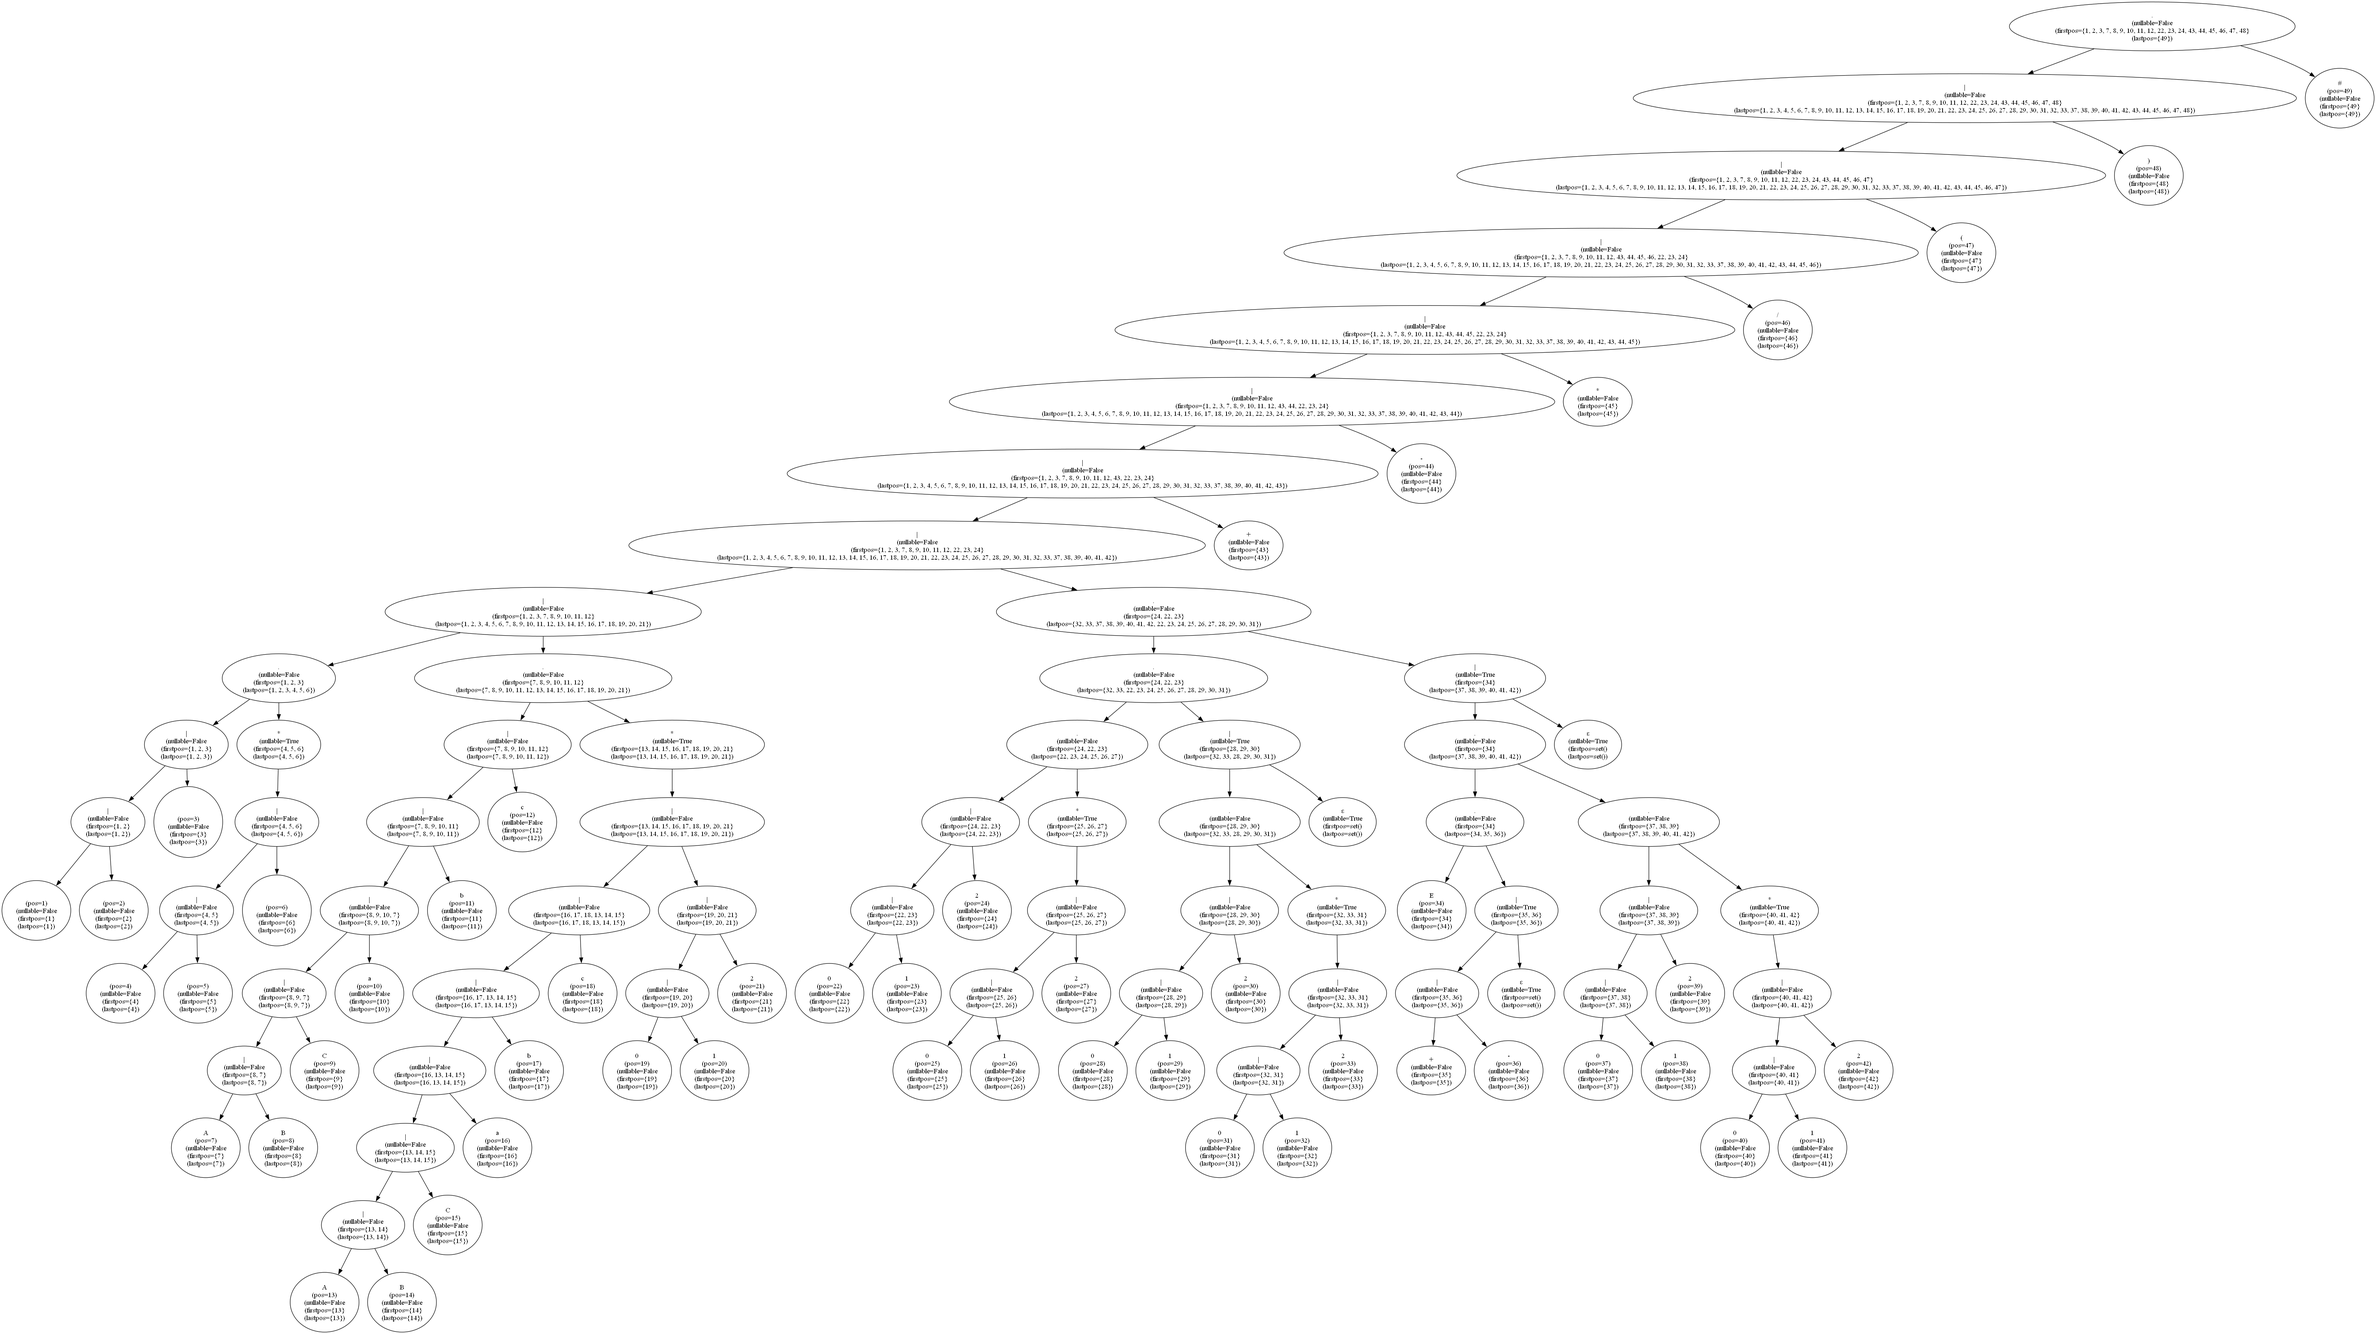
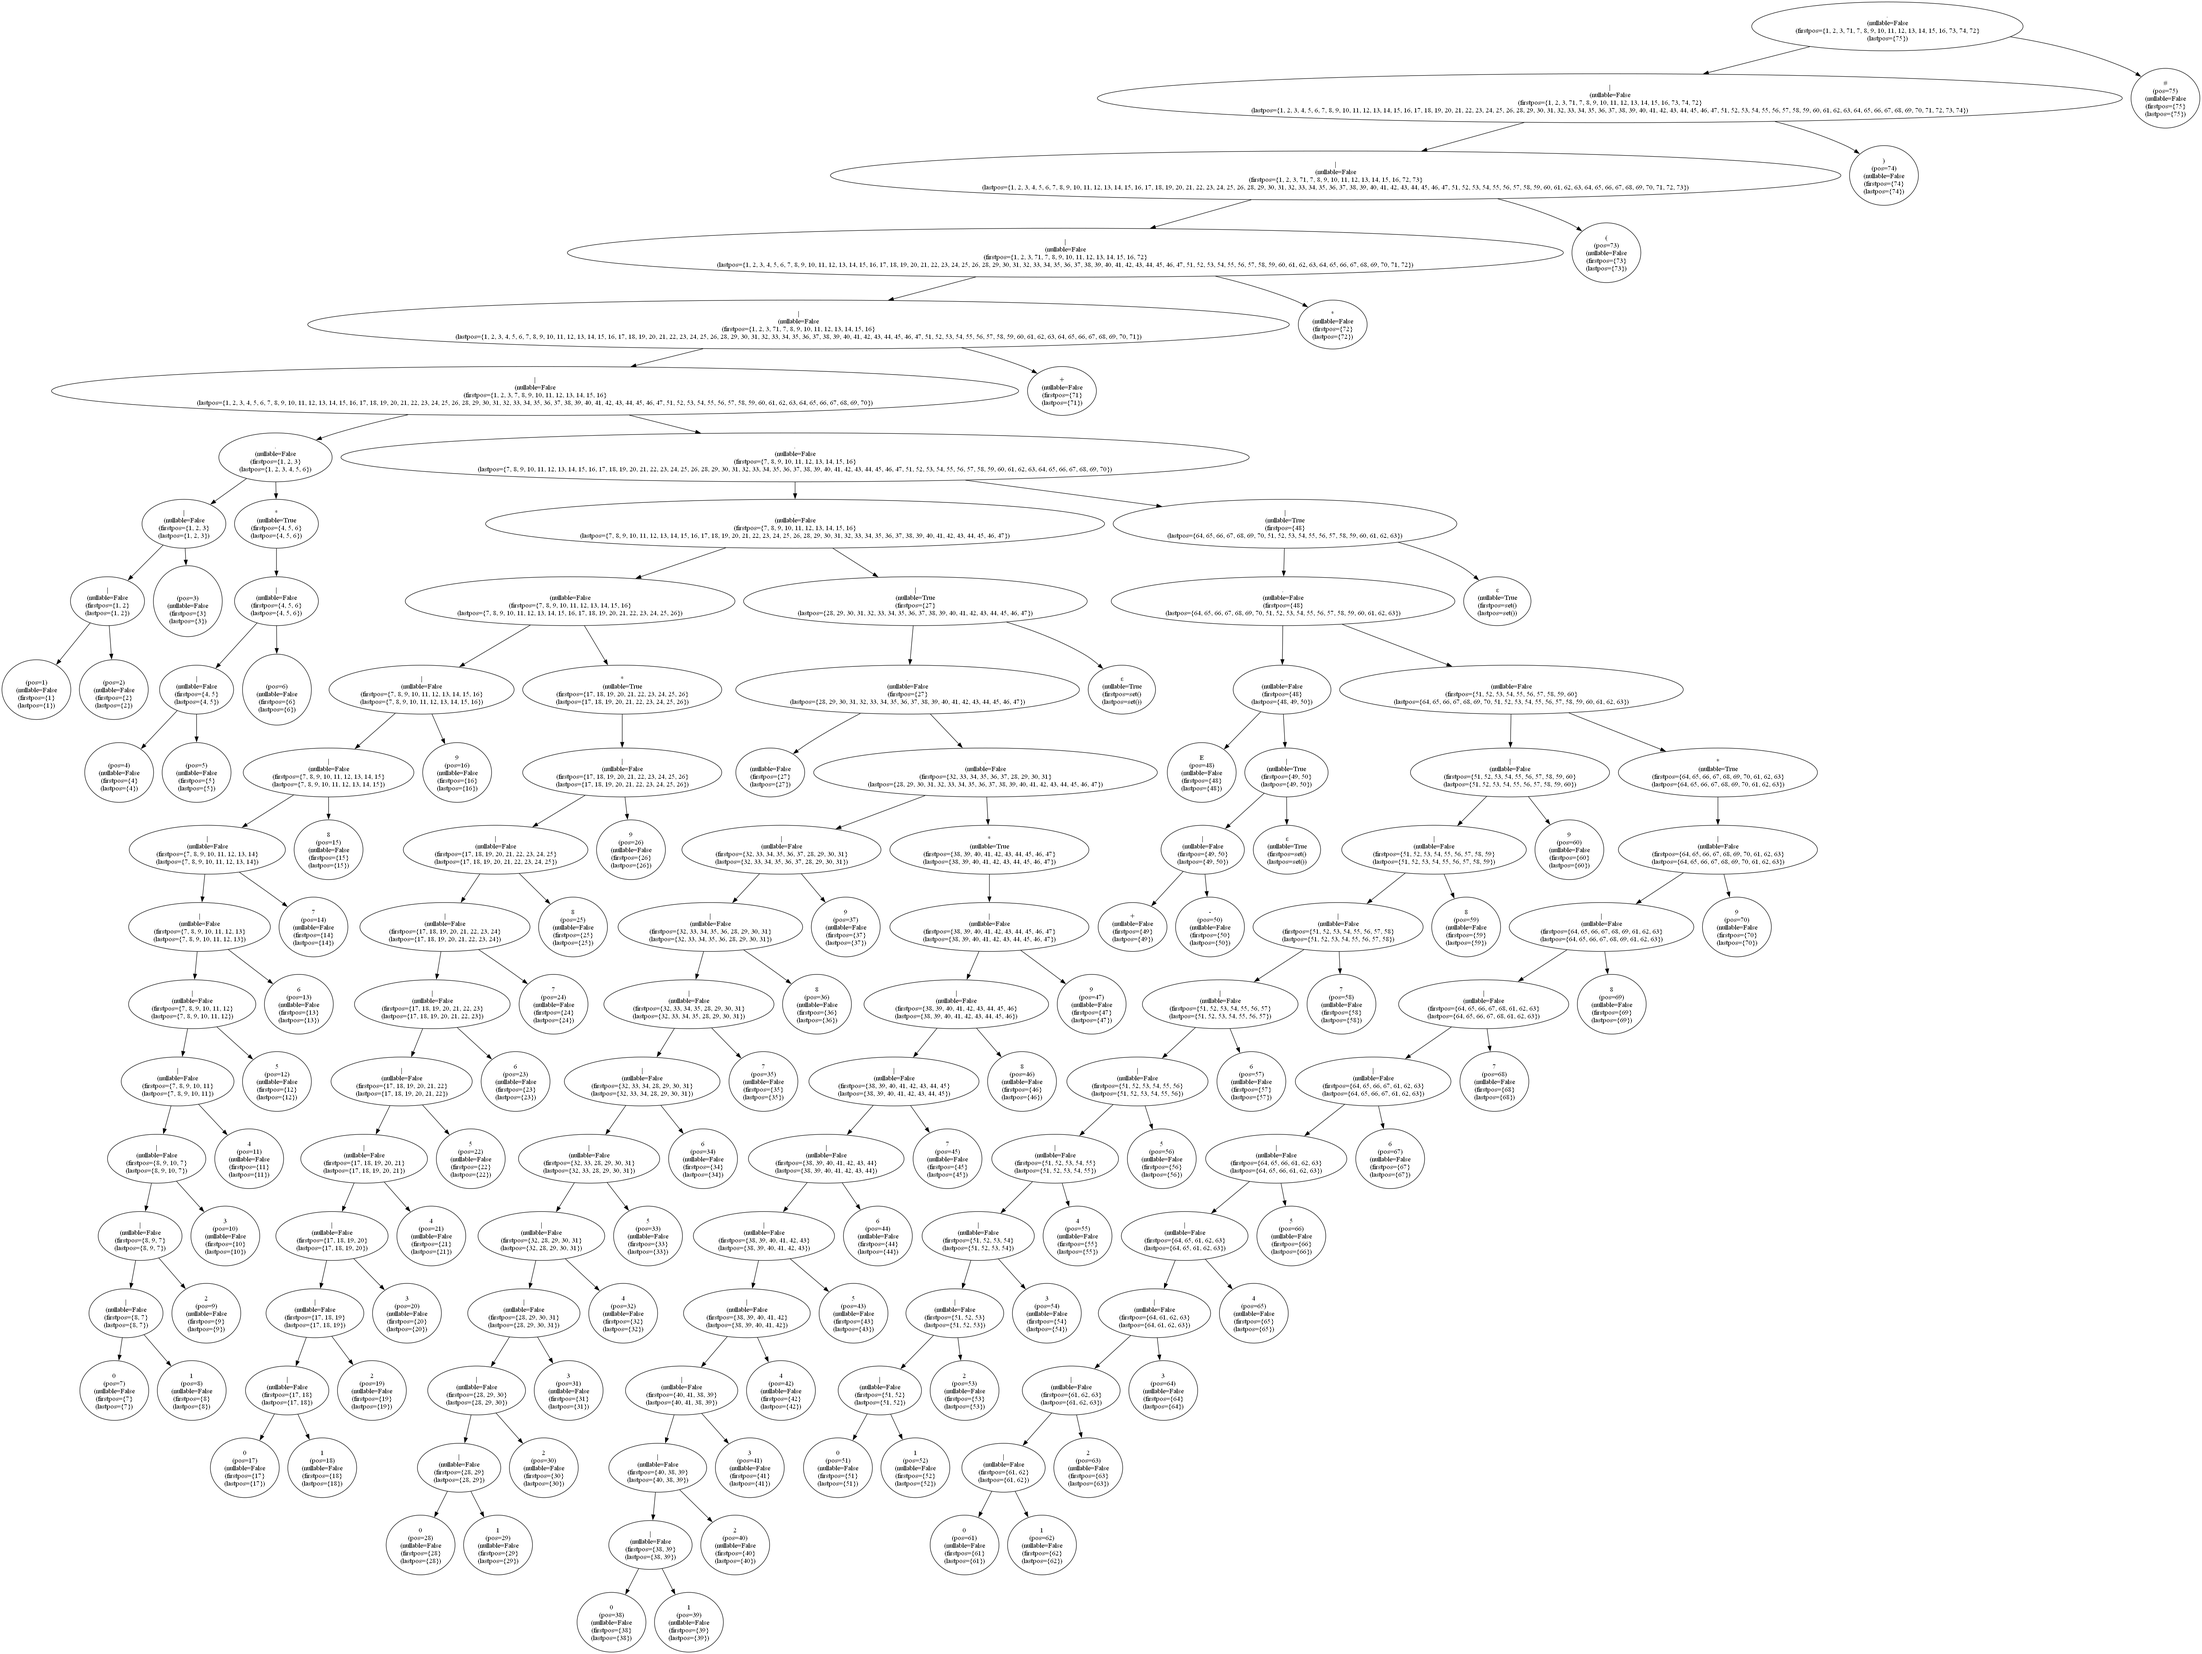
bugs
se arreglaron bugs de shunting yard y algunas implementaciones del parser

diff --git a/yalex_parser.py b/yalex_parser.py
@@ -131,12 +131,8 @@ def extraer_trailer(yalex_code):
     return trailer, yalex_code
 
 
-
-
-
-
 #NOMBRE YALEX
-yalex = 'yalexs/slr-2.yal'
+yalex = 'yalexs/slr-3.yal'
 yalex_parser(yalex)
 
 header, expresiones, reglas, trailer = yalex_parser(yalex)
@@ -174,10 +170,32 @@ def expand_definitions_recursivo(definiciones):
                     resultado += f'({expand(token)})'
                 else:
                     resultado += token
+
+            # Detectar literales entre comillas simples
+            elif expr[i] == "'":
+                i += 1
+                literal = ''
+                while i < len(expr) and expr[i] != "'":
+                    literal += expr[i]
+                    i += 1
+                i += 1  # Saltar la comilla de cierre
+                # Si el literal es alfabético se deja sin comillas (ejemplo: 'E' se convierte en E)
+                # En caso contrario (como '+' o '-') se encierra en comillas
+                if literal.isalpha():
+                    resultado += literal
+                else:
+                    resultado += f"'{literal}'"
+
+            # Detectar rangos
             elif expr[i] == '[':
                 fin = expr.find(']', i)
                 resultado += expand_range(expr[i:fin+1])
                 i = fin + 1
+
+            elif expr[i] == '_':
+                resultado += expand_printable_chars()
+                i += 1
+
             else:
                 resultado += expr[i]
                 i += 1
@@ -188,6 +206,7 @@ def expand_definitions_recursivo(definiciones):
         expand(nombre)
 
     return expanded
+
 
 def extraer_literal(cadena, indice):
     """
@@ -241,74 +260,91 @@ def extraer_literal_doble(cadena, indice):
     raise ValueError("Literal entre comillas dobles no cerrado correctamente.")
 
 def expand_range(rango):
-    """
-    Procesa una cadena de rango, por ejemplo: [' ''\t''\n'], extrayendo cada literal
-    completo y luego uniéndolos con '|' entre paréntesis.
-    """
+    # Procesa una cadena de rango, por ejemplo: ['+''-'] o ['0'-'2']
     elementos = []
     i = 0
     while i < len(rango):
         if rango[i] == "'":
-            # Extraer literal entre comillas simples
-            literal, i = extraer_literal(rango, i)
-            elementos.append(literal)
-        elif rango[i] == '"':
-            # Manejar el caso ["\s\t\n"]
-            i += 1  # saltar la primera comilla doble
-            literal = ''
+            i += 1
+            char = ''
+            while i < len(rango) and rango[i] != "'":
+                char += rango[i]
+                i += 1
+            elementos.append(char)
+            i += 1  # Saltar la comilla final
+        elif rango[i] == '"':  # Soporte para ["\s\t\n"] si lo necesitaras
+            i += 1
             while i < len(rango) and rango[i] != '"':
                 if rango[i] == '\\' and i + 1 < len(rango):
-                    if rango[i + 1] == 't':
-                        elementos.append('\\t')
+                    if rango[i+1] in ('t','n','s'):
+                        if rango[i+1] == 't':
+                            elementos.append('\\t')
+                        elif rango[i+1] == 'n':
+                            elementos.append('\\n')
+                        elif rango[i+1] == 's':
+                            elementos.append(' ')
                         i += 2
-                    elif rango[i + 1] == 'n':
-                        elementos.append('\\n')
-                        i += 2
-                    elif rango[i + 1] == 's':
-                        elementos.append("' '")  # Tratamos \s como espacio
-                        i += 2
-                    else:
-                        # Otro caracter con backslash, tomarlo literal
-                        elementos.append(rango[i] + rango[i + 1])
-                        i += 2
-                else:
-                    if rango[i] == ' ':
-                        elementos.append("' '")
                     else:
                         elementos.append(rango[i])
+                        i += 1
+                else:
+                    elementos.append(rango[i])
                     i += 1
             i += 1  # Saltar la comilla de cierre
         elif rango[i] == '-':
-            # Maneja rangos, por ejemplo: 'A'-'Z'
-            if elementos:
-                start = elementos.pop()
-                i += 1  # Saltar el guion
-                if i < len(rango) and rango[i] == "'":
-                    end_literal, i = extraer_literal(rango, i)
-                    for c in range(ord(start), ord(end_literal) + 1):
-                        elementos.append(chr(c))
-            else:
+            # Maneja el rango, por ejemplo: 'A'-'Z'
+            start = elementos.pop()
+            i += 1  # Saltar el guion
+            if i < len(rango) and rango[i] == "'":
                 i += 1
+                end = ''
+                while i < len(rango) and rango[i] != "'":
+                    end += rango[i]
+                    i += 1
+                i += 1  # cerrar '
+                # Expandir rango
+                for c in range(ord(start), ord(end) + 1):
+                    elementos.append(chr(c))
         else:
             i += 1
-
-    # Une los elementos usando '|' y protege los caracteres especiales
     return '(' + '|'.join(map(escape_specials, elementos)) + ')'
 
 
 
+
 def escape_specials(char):
-    if char == ' ' or char == "' '":
-        return "' '"
-    if char == '\\t' or char == "'\\t'":
-        return '\\t'
-    if char == '\\n' or char == "'\\n'":
-        return '\\n'
-    if char == '\\s' or char == "'\\s'":
-        return '\\s'
-    return char
+    # Si es alfanumérico, lo dejamos sin comillas
+    if char.isalnum():
+        return char
+    # En otro caso, se encierra en comillas simples
+    return f"'{char}'"
+
 
     
+def convertir_puntos_a_literal(expresion):
+    """
+    Recorre la expresión y convierte cada punto que no esté dentro de comillas 
+    en "'.'" para que se trate como literal.
+    """
+    resultado = ""
+    in_quote = False
+    i = 0
+    while i < len(expresion):
+        ch = expresion[i]
+        if ch == "'":
+            # Alternar estado de literal
+            resultado += ch
+            in_quote = not in_quote
+            i += 1
+        else:
+            # Si no estamos dentro de un literal y encontramos un punto, lo convertimos
+            if not in_quote and ch == '.':
+                resultado += "'.'"
+                i += 1
+            else:
+                resultado += ch
+                i += 1
+    return resultado
 
 
 
@@ -365,6 +401,16 @@ def apply_operator(expansion, operador):
     else:
         return f"({expansion}){operador}"
     
+def expand_printable_chars():
+    """
+    Genera una cadena que representa la unión de todos los caracteres imprimibles (ASCII 32 a 126),
+    cada uno entre comillas simples, separados por '|', y todo entre paréntesis.
+    Ejemplo: (' '|'!'|'"'|...|'~')
+    """
+    printable_chars = [chr(i) for i in range(32, 127)]
+    union = '|'.join("'" + c + "'" for c in printable_chars)
+    return '(' + union + ')'
+    
 def procesar_reglas(reglas, definiciones_expandidas):
     """Procesa las reglas y expande las referencias usando las definiciones."""
     reglas_procesadas = []
@@ -393,7 +439,7 @@ def procesar_reglas(reglas, definiciones_expandidas):
         reglas_procesadas.append(f"-> {token} = {patron_expandido}")
 
     return reglas_procesadas
-    return reglas_procesadas
+
 def generar_expresion_infix(reglas_procesadas):
     """Genera la gran expresión infix final, protegiendo los literales especiales."""
     especiales = {'+', '-', '*', '/', '(', ')', '|', '?', ':', ';', '='}
@@ -458,6 +504,7 @@ with open('output/final_infix.txt', 'w', encoding='utf-8') as f:
     f.write(infix_final)
 
 infix_final = generar_final_infix_total(reglas_procesadas, expandidas)
+infix_final = convertir_puntos_a_literal(infix_final)
 
 with open('output/final_infix.txt', 'w', encoding='utf-8') as f:
     f.write(infix_final)

diff --git a/shuntingyard.py b/shuntingyard.py
@@ -20,7 +20,6 @@ def expand_operators(expression):
         char = expression[i]
 
         if char == '+':
-            # ✅ Buscar la base completa entre paréntesis si la hay
             if expanded_expression and expanded_expression[-1] == ')':
                 # Extraer la expresión entre paréntesis como base
                 sub_expr = ''
@@ -34,7 +33,7 @@ def expand_operators(expression):
                     sub_expr = token + sub_expr
                     if count == 0:
                         break
-                expanded_expression.append(f'{sub_expr}.{sub_expr}*')
+                expanded_expression.append(f'({sub_expr}.{sub_expr}*)')
         elif char == '?':
             if expanded_expression:
                 base = expanded_expression.pop()
@@ -60,14 +59,21 @@ def expand_operators(expression):
                     expanded_expression.append(contenido)
                 i = j
         else:
-            if (expanded_expression and expanded_expression[-1] not in operadores and char not in operadores) or \
-               (expanded_expression and expanded_expression[-1] in [')', '*'] and char not in operadores):
-                expanded_expression.append('.')
+            if expanded_expression:
+                prev = expanded_expression[-1]
+                # Insertar el operador de concatenación ('.') si se cumple alguna de estas condiciones:
+                # 1. Si el token previo no es un operador y el actual tampoco lo es.
+                # 2. Si el token previo es ')' o '*' y el actual no es operador.
+                # 3. Si el token previo es un literal mapeado (placeholder) y el actual es '('.
+                if ((prev not in operadores and char not in operadores) or \
+                    (prev in [')', '*'] and char not in operadores) or \
+                    (prev in placeholder_to_literal and char == '(')):
+                    expanded_expression.append('.')
             expanded_expression.append(char)
-
+        
         i += 1
 
-    return ''.join(expanded_expression).replace('()', '')  # r
+    return ''.join(expanded_expression).replace('()', '')
 
 def concatImplicita(infix):
     resultado = []
@@ -183,9 +189,11 @@ def convert_infix_to_postfix(expresion):
     return postfix
 
 if __name__ == '__main__':
-    infix = "((s|t|n))"
-    postfix = convert_infix_to_postfix(infix)
+    infix = "((' '|'!'|'"'|'#'|'$'|'%'|'&'|'''|'('|')'|'*'|'+'|','|'-'|'.'|'/'|'0'|'1'|'2'|'3'|'4'|'5'|'6'|'7'|'8'|'9'|':'|';'|'<'|'='|'>'|'?'|'@'|'A'|'B'|'C'|'D'|'E'|'F'|'G'|'H'|'I'|'J'|'K'|'L'|'M'|'N'|'O'|'P'|'Q'|'R'|'S'|'T'|'U'|'V'|'W'|'X'|'Y'|'Z'|'['|'\'|']'|'^'|'_'|'`'|'a'|'b'|'c'|'d'|'e'|'f'|'g'|'h'|'i'|'j'|'k'|'l'|'m'|'n'|'o'|'p'|'q'|'r'|'s'|'t'|'u'|'v'|'w'|'x'|'y'|'z'|'{'|'|'|'}'|'~'))*"
     print(f"Infix: {infix}")
+    expandir = expand_operators(infix)
+    print(f"Expandida: {expandir}")
+    postfix = convert_infix_to_postfix(infix)
     print(f"Postfix: {postfix}")
 
 

diff --git a/ERtoAFD.py b/ERtoAFD.py
@@ -29,8 +29,9 @@ def ERtoAFD(expresion):
         return expresion + '#'
     infix = aumentarER(expresion)
     print("Expresión regular aumentada:", infix)
+    #postfix = "  \t|\n| \t|\n|*.AB|C|a|b|c|AB|C|a|b|c|01|2||*.|01|2|01|2|*.01|2|01|2|*..ε|.E'+''-'|ε|.01|2|01|2|*..ε|.|'+'|'-'|'*'|'/'|'('|')'|#."
     postfix = sy.convert_infix_to_postfix(aumentarER(expresion))
-    print('postfix',postfix)
+    print('postfix:',postfix)
     root = estructuras.build_expression_tree(postfix)
 
     def assign_pos_ids(root):
@@ -67,6 +68,7 @@ def ERtoAFD(expresion):
         #print(f"Pos {pos}: {follows}")
 
     gv_utils.generate_expression_tree_image(root, "output/expression_tree")
+    print("Árbol de expresión generado en output/expression_tree.png")
 
     # Suponiendo que ya tienes el árbol con followpos calculado
     afd = construir_afd(root,followpos_table)

diff --git a/graphviz_utils.py b/graphviz_utils.py
@@ -25,7 +25,8 @@ def generate_expression_tree_image(root, filename):
     dot.render(filename, format='png', cleanup=True)
 
 # arbol de |*.AB|C|a|b|c|AB|C|a|b|c|01|2||*.|01|2|01|2|*.01|2|01|2|*..ε|.E'+''-'|ε|.01|2|01|2|*..ε|.|'+'|'-'|'*'|'/'|'('|')'|#.
-infix = "(((' '|\t|\n))+|((A|B|C|a|b|c))(((A|B|C|a|b|c))|((0|1|2)))*|(((0|1|2))+)((((0|1|2))+))?('E'('+'|'-')?(((0|1|2))+))?|'+'|'-'|'*'|'/'|'('|')')#"
-postfix = convert_infix_to_postfix(infix)
+
+postfix = "  \t|\n| \t|\n|*.AB|C|a|b|c|AB|C|a|b|c|01|2||*.|01|2|01|2|*.01|2|01|2|*..ε|.E'+''-'|ε|.01|2|01|2|*..ε|.|'+'|'-'|'*'|'/'|'('|')'|#."
+print('postfix', postfix)
 root = build_expression_tree(postfix)
-generate_expression_tree_image(root, "output/expression_tree")
+generate_expression_tree_image(root, "output/expression_tree2")
